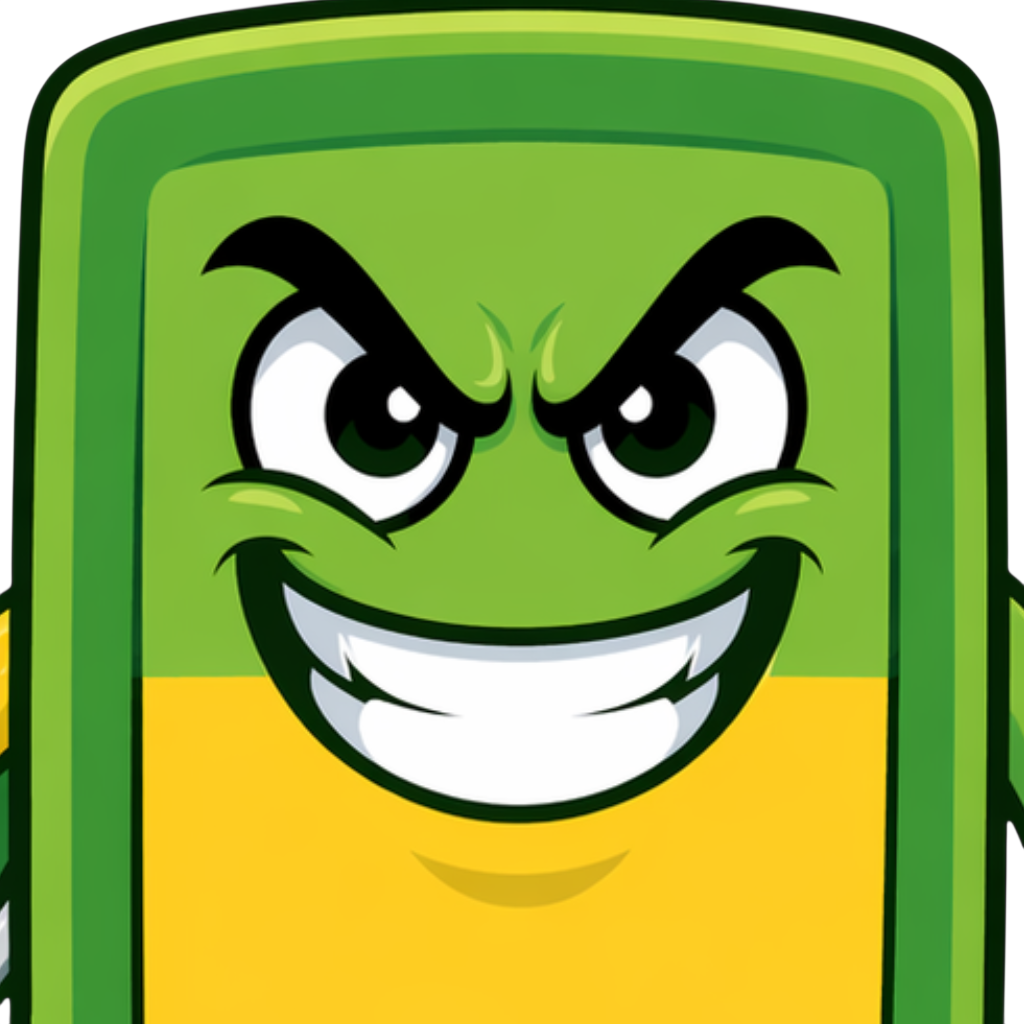
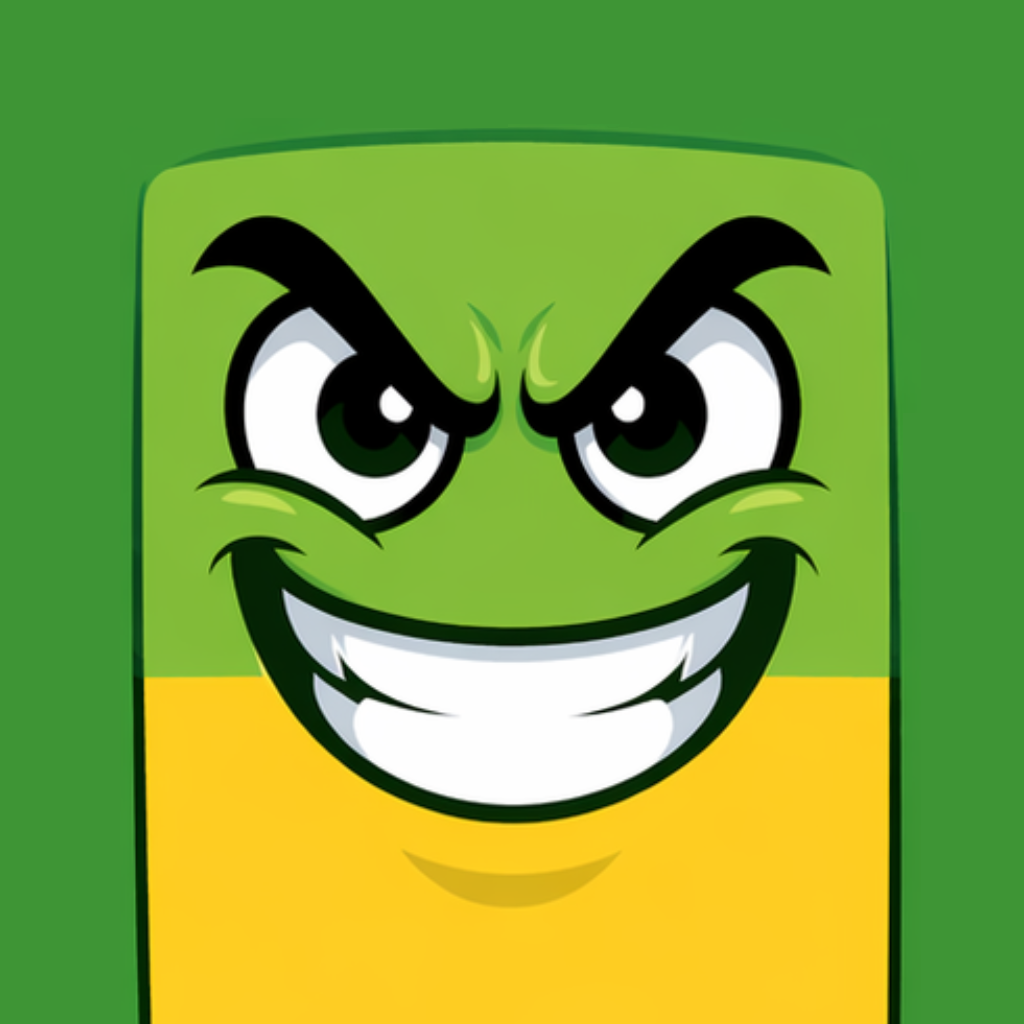
fix: resolvido tema selecionado nao carregando na inicializacao

diff --git a/app/src/theme/ThemeProvider.tsx b/app/src/theme/ThemeProvider.tsx
@@ -1,14 +1,17 @@
-import React, { createContext, useCallback, useContext, ReactNode, useMemo, useState } from 'react';
+import React, { createContext, useCallback, useContext, ReactNode, useEffect, useMemo, useState } from 'react';
 import { useColorScheme } from 'react-native';
+import * as SecureStore from 'expo-secure-store';
 import { lightTheme, darkTheme, ThemeColors } from './colors';
 
 interface ThemeContextData {
     colors: ThemeColors;
     isDark: boolean;
+    isThemeReady: boolean;
     toggleTheme: () => void;
 }
 
 const ThemeContext = createContext<ThemeContextData | undefined>(undefined);
+const THEME_PREFERENCE_STORAGE_KEY = 'appThemePreference';
 
 /**
  * Provedor de tema global.
@@ -18,6 +21,50 @@ export const ThemeProvider = ({ children }: { children: ReactNode }) => {
     const systemColorScheme = useColorScheme();
 
     const [manualTheme, setManualTheme] = useState<'light' | 'dark' | null>(null);
+    const [isThemeReady, setIsThemeReady] = useState(false);
+
+    useEffect(() => {
+        let isMounted = true;
+
+        async function loadThemePreference() {
+            try {
+                const storedTheme = await SecureStore.getItemAsync(THEME_PREFERENCE_STORAGE_KEY);
+
+                if (!isMounted) {
+                    return;
+                }
+
+                if (storedTheme === 'light' || storedTheme === 'dark') {
+                    setManualTheme(storedTheme);
+                }
+            } catch (error) {
+                console.warn('Falha ao carregar a preferencia de tema:', error);
+            } finally {
+                if (isMounted) {
+                    setIsThemeReady(true);
+                }
+            }
+        }
+
+        loadThemePreference();
+
+        return () => {
+            isMounted = false;
+        };
+    }, []);
+
+    const persistThemePreference = useCallback(async (nextTheme: 'light' | 'dark' | null) => {
+        try {
+            if (nextTheme === null) {
+                await SecureStore.deleteItemAsync(THEME_PREFERENCE_STORAGE_KEY);
+                return;
+            }
+
+            await SecureStore.setItemAsync(THEME_PREFERENCE_STORAGE_KEY, nextTheme);
+        } catch (error) {
+            console.warn('Falha ao salvar a preferencia de tema:', error);
+        }
+    }, []);
 
     // Mantem o override manual enquanto houver preferencia local definida.
     const isDark = manualTheme !== null 
@@ -27,13 +74,17 @@ export const ThemeProvider = ({ children }: { children: ReactNode }) => {
     const colors = isDark ? darkTheme : lightTheme;
 
     const toggleTheme = useCallback(() => {
-        setManualTheme((prev) => {
-            const resolvedIsDark = prev ? prev === 'dark' : systemColorScheme === 'dark';
-            return resolvedIsDark ? 'light' : 'dark';
-        });
-    }, [systemColorScheme]);
+        const resolvedIsDark = manualTheme !== null ? manualTheme === 'dark' : systemColorScheme === 'dark';
+        const nextTheme = resolvedIsDark ? 'light' : 'dark';
 
-    const value = useMemo(() => ({ colors, isDark, toggleTheme }), [colors, isDark, toggleTheme]);
+        setManualTheme(nextTheme);
+        void persistThemePreference(nextTheme);
+    }, [manualTheme, persistThemePreference, systemColorScheme]);
+
+    const value = useMemo(
+        () => ({ colors, isDark, isThemeReady, toggleTheme }),
+        [colors, isDark, isThemeReady, toggleTheme]
+    );
 
     return (
         <ThemeContext.Provider value={value}>

diff --git a/app/App.tsx b/app/App.tsx
@@ -1,5 +1,5 @@
 import React, { useEffect, useMemo, useState } from 'react';
-import { DefaultTheme, NavigationContainer } from '@react-navigation/native';
+import { DarkTheme, DefaultTheme, NavigationContainer } from '@react-navigation/native';
 import { createNativeStackNavigator } from '@react-navigation/native-stack';
 import * as Location from 'expo-location';
 import { SafeAreaProvider, initialWindowMetrics } from 'react-native-safe-area-context';
@@ -46,17 +46,22 @@ function AppNavigator({
   hasLocationPermission,
   onPermissionGranted,
 }: AppNavigatorProps) {
-  const { colors } = useAppTheme();
+  const { colors, isDark } = useAppTheme();
 
   const navigationTheme = useMemo(
     () => ({
-      ...DefaultTheme,
+      ...(isDark ? DarkTheme : DefaultTheme),
       colors: {
-        ...DefaultTheme.colors,
+        ...(isDark ? DarkTheme.colors : DefaultTheme.colors),
         background: colors.background,
+        card: colors.surface,
+        text: colors.textPrimary,
+        border: colors.border,
+        primary: colors.primary,
+        notification: colors.primary,
       },
     }),
-    [colors.background]
+    [colors.background, colors.border, colors.primary, colors.surface, colors.textPrimary, isDark]
   );
 
   return (
@@ -101,6 +106,7 @@ function AppNavigator({
  */
 function AppContent() {
   const { isInitializingAuth } = useAuth();
+  const { isThemeReady } = useAppTheme();
   const [isAppReady, setIsAppReady] = useState(false);
   const [hasLocationPermission, setHasLocationPermission] = useState<boolean | null>(null);
 
@@ -132,7 +138,7 @@ function AppContent() {
     };
   }, []);
 
-  const canFinishLoading = !isInitializingAuth && hasLocationPermission !== null;
+  const canFinishLoading = !isInitializingAuth && hasLocationPermission !== null && isThemeReady;
 
   return (
     <>

diff --git a/app/app.config.js b/app/app.config.js
@@ -12,8 +12,8 @@ export default {
     "newArchEnabled": true,
     "splash": {
       "image": "./assets/splash-icon.png",
-      "backgroundColor": "#ffffff",
-      "resizeMode": "contain"
+      "backgroundColor": "#3e9535",
+      "resizeMode": "cover"
     },
     "ios": {
       "supportsTablet": true
@@ -21,7 +21,7 @@ export default {
     "android": {
       "adaptiveIcon": {
         "foregroundImage": "./assets/adaptive-icon.png",
-        "backgroundColor": "#ffffff"
+        "backgroundColor": "#3e9535"
       },
       "edgeToEdgeEnabled": true,
       "predictiveBackGestureEnabled": false,

diff --git a/app/src/utils/flagsDictionary.ts b/app/src/utils/flagsDictionary.ts
@@ -9,5 +9,6 @@ export const flagsDictionary: Record<string, any> = {
     'Lemon': require('../../assets/flags/lemon.png'),
     'Estrela': require('../../assets/flags/estrela.jpg'),
     'Macaco': require('../../assets/flags/macaco.png'),
-    'Setta': require('../../assets/flags/setta.jpg')
+    'Setta': require('../../assets/flags/setta.jpg'),
+    'Domingos': require('../../assets/flags/domingos.jpg'),
 };
